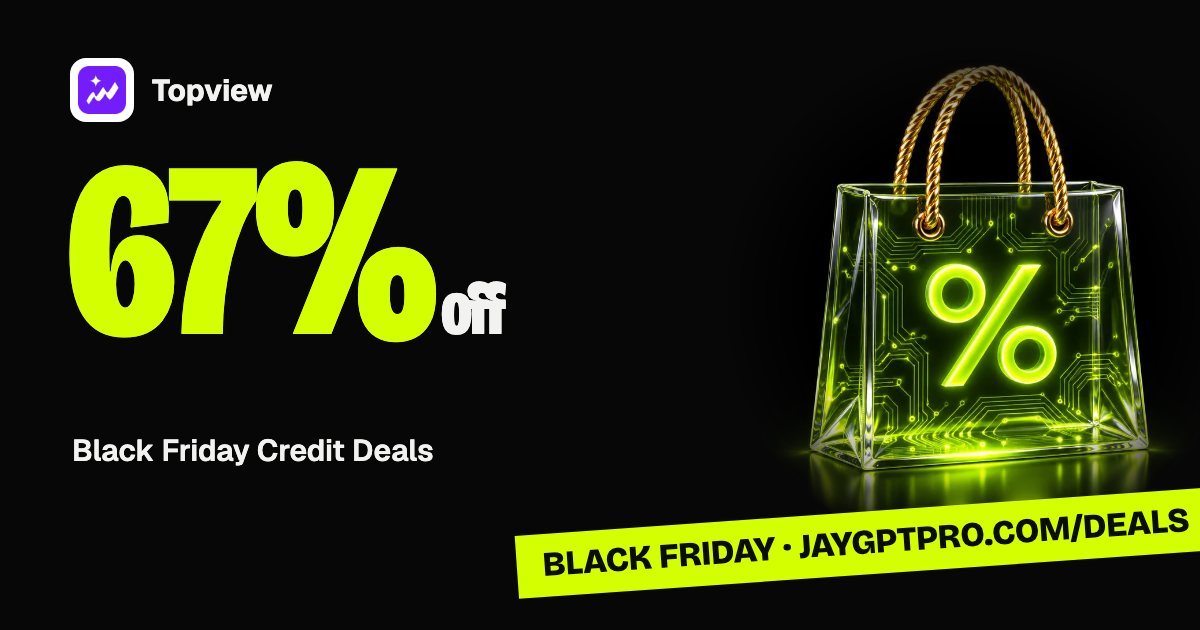
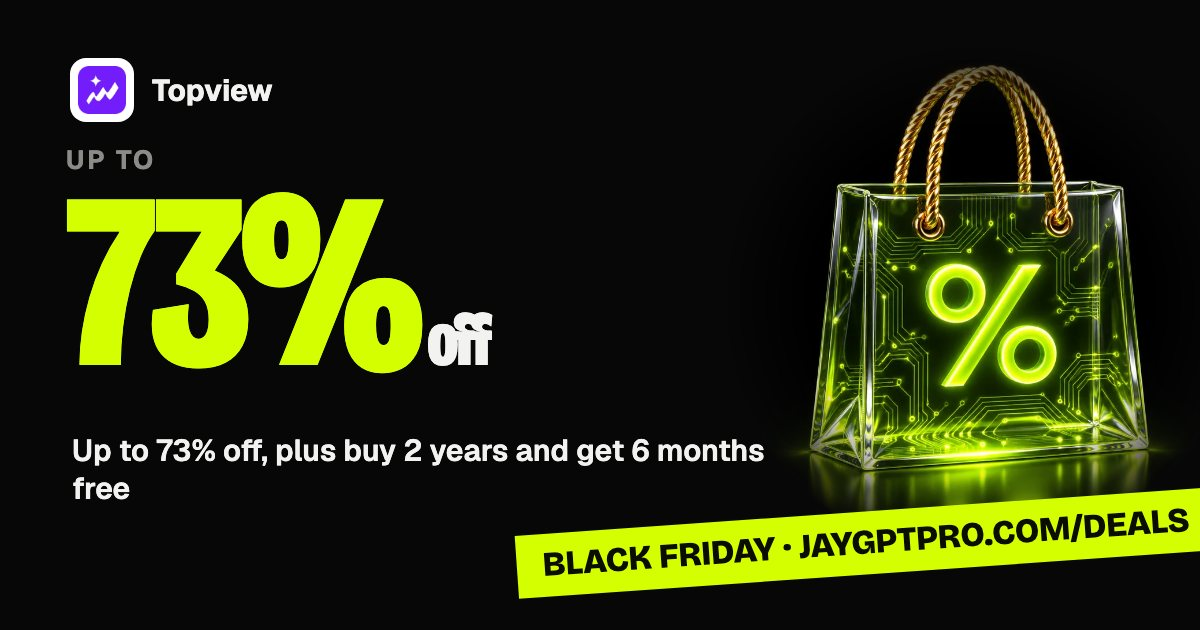
Deal Desk: every link goes to the vendor's own page
Audit of all 41 deals on 24.11. Six links pointed at other deal sites
(pricingsaas, aitoolsdirectory x3, cybernews, slickdeals); AdCreative,
LALAL.AI, VEED, Genspark and QuillBot now link to their own pages, where
each deal was confirmed. Corrected to what the vendor shows: QuillBot 40%
to Dec 6, Genspark from $9.99/mo, Higgsfield up to 69%, Topview up to 73%,
Picsart's unlimited Seedance with Ultra annual. Google AI Pro (slickdeals
only), Titan's PPC challenge (page gone) and Pabbly (checkout opens Nov 27)
go back on watch. 38 deals live.

Changed region(s): [[0.0308, 0.2413, 0.4317, 0.6032], [0.0617, 0.6937, 0.6475, 0.8143]]

diff --git a/deals/d/picsart/index.html b/deals/d/picsart/index.html
@@ -1,8 +1,8 @@
 <!doctype html><html lang="en"><head><meta charset="utf-8">
-<title>Picsart: up to 30% off · Black Friday 2026</title>
-<meta name="description" content="Black Friday deal: Ultra annual. Photo and video editor with AI backgrounds, product shots and Seedance video. Checked by hand by Jay GPT Pro.">
-<meta property="og:title" content="Picsart: up to 30% off for Black Friday">
-<meta property="og:description" content="Black Friday deal: Ultra annual. Photo and video editor with AI backgrounds, product shots and Seedance video. Checked by hand by Jay GPT Pro.">
+<title>Picsart: Unlimited · Black Friday 2026</title>
+<meta name="description" content="Unlimited Seedance 2.5 video with an Ultra annual plan. Photo and video editor with AI backgrounds, product shots and Seedance video. Checked by hand by Jay GPT Pro.">
+<meta property="og:title" content="Picsart: Unlimited for Black Friday">
+<meta property="og:description" content="Unlimited Seedance 2.5 video with an Ultra annual plan. Photo and video editor with AI backgrounds, product shots and Seedance video. Checked by hand by Jay GPT Pro.">
 <meta property="og:image" content="https://jaygptpro.com/deals/d/picsart/og.jpg">
 <meta property="og:url" content="https://jaygptpro.com/deals/d/picsart/">
 <meta property="og:type" content="website">
@@ -10,6 +10,6 @@
 <meta http-equiv="refresh" content="0; url=https://jaygptpro.com/deals/#deal-picsart">
 <link rel="canonical" href="https://jaygptpro.com/deals/#deal-picsart">
 </head><body style="background:#070707;color:#f2f2f0;font-family:system-ui;padding:40px">
-<p><a style="color:#d4ff00" href="https://jaygptpro.com/deals/#deal-picsart">Picsart: up to 30% off. See the deal</a></p>
+<p><a style="color:#d4ff00" href="https://jaygptpro.com/deals/#deal-picsart">Picsart: Unlimited. See the deal</a></p>
 <script>location.replace("https://jaygptpro.com/deals/#deal-picsart");</script>
 </body></html>

diff --git a/deals/d/higgsfield/index.html b/deals/d/higgsfield/index.html
@@ -1,8 +1,8 @@
 <!doctype html><html lang="en"><head><meta charset="utf-8">
-<title>Higgsfield: up to 70% off · Black Friday 2026</title>
-<meta name="description" content="Up to 70% OFF Black Friday. AI image and video generation used for product ads and UGC-style clips Checked by hand by Jay GPT Pro.">
-<meta property="og:title" content="Higgsfield: up to 70% off for Black Friday">
-<meta property="og:description" content="Up to 70% OFF Black Friday. AI image and video generation used for product ads and UGC-style clips Checked by hand by Jay GPT Pro.">
+<title>Higgsfield: up to 69% off · Black Friday 2026</title>
+<meta name="description" content="Up to 69% off Black Friday. AI image and video generation used for product ads and UGC-style clips Checked by hand by Jay GPT Pro.">
+<meta property="og:title" content="Higgsfield: up to 69% off for Black Friday">
+<meta property="og:description" content="Up to 69% off Black Friday. AI image and video generation used for product ads and UGC-style clips Checked by hand by Jay GPT Pro.">
 <meta property="og:image" content="https://jaygptpro.com/deals/d/higgsfield/og.jpg">
 <meta property="og:url" content="https://jaygptpro.com/deals/d/higgsfield/">
 <meta property="og:type" content="website">
@@ -10,6 +10,6 @@
 <meta http-equiv="refresh" content="0; url=https://jaygptpro.com/deals/#deal-higgsfield">
 <link rel="canonical" href="https://jaygptpro.com/deals/#deal-higgsfield">
 </head><body style="background:#070707;color:#f2f2f0;font-family:system-ui;padding:40px">
-<p><a style="color:#d4ff00" href="https://jaygptpro.com/deals/#deal-higgsfield">Higgsfield: up to 70% off. See the deal</a></p>
+<p><a style="color:#d4ff00" href="https://jaygptpro.com/deals/#deal-higgsfield">Higgsfield: up to 69% off. See the deal</a></p>
 <script>location.replace("https://jaygptpro.com/deals/#deal-higgsfield");</script>
 </body></html>

diff --git a/deals/d/genspark/index.html b/deals/d/genspark/index.html
@@ -1,8 +1,8 @@
 <!doctype html><html lang="en"><head><meta charset="utf-8">
-<title>Genspark: 50% off · Black Friday 2026</title>
-<meta name="description" content="Genspark Black Friday. AI agent workspace that builds slides, sheets, research and calls. Checked by hand by Jay GPT Pro.">
-<meta property="og:title" content="Genspark: 50% off for Black Friday">
-<meta property="og:description" content="Genspark Black Friday. AI agent workspace that builds slides, sheets, research and calls. Checked by hand by Jay GPT Pro.">
+<title>Genspark: $9.99/mo · Black Friday 2026</title>
+<meta name="description" content="Black Friday sale: plans from $9.99/mo. AI agent workspace that builds slides, sheets, research and calls. Checked by hand by Jay GPT Pro.">
+<meta property="og:title" content="Genspark: $9.99/mo for Black Friday">
+<meta property="og:description" content="Black Friday sale: plans from $9.99/mo. AI agent workspace that builds slides, sheets, research and calls. Checked by hand by Jay GPT Pro.">
 <meta property="og:image" content="https://jaygptpro.com/deals/d/genspark/og.jpg">
 <meta property="og:url" content="https://jaygptpro.com/deals/d/genspark/">
 <meta property="og:type" content="website">
@@ -10,6 +10,6 @@
 <meta http-equiv="refresh" content="0; url=https://jaygptpro.com/deals/#deal-genspark">
 <link rel="canonical" href="https://jaygptpro.com/deals/#deal-genspark">
 </head><body style="background:#070707;color:#f2f2f0;font-family:system-ui;padding:40px">
-<p><a style="color:#d4ff00" href="https://jaygptpro.com/deals/#deal-genspark">Genspark: 50% off. See the deal</a></p>
+<p><a style="color:#d4ff00" href="https://jaygptpro.com/deals/#deal-genspark">Genspark: $9.99/mo. See the deal</a></p>
 <script>location.replace("https://jaygptpro.com/deals/#deal-genspark");</script>
 </body></html>

diff --git a/deals/d/quillbot/index.html b/deals/d/quillbot/index.html
@@ -1,8 +1,8 @@
 <!doctype html><html lang="en"><head><meta charset="utf-8">
-<title>QuillBot: 58% off · Black Friday 2026</title>
-<meta name="description" content="QuillBot Black Friday 2026. Paraphraser and grammar tool for rewriting product copy quickly. Checked by hand by Jay GPT Pro.">
-<meta property="og:title" content="QuillBot: 58% off for Black Friday">
-<meta property="og:description" content="QuillBot Black Friday 2026. Paraphraser and grammar tool for rewriting product copy quickly. Checked by hand by Jay GPT Pro.">
+<title>QuillBot: 40% off · Black Friday 2026</title>
+<meta name="description" content="40% off Premium, through Dec 6. Paraphraser and grammar tool for rewriting product copy quickly. Checked by hand by Jay GPT Pro.">
+<meta property="og:title" content="QuillBot: 40% off for Black Friday">
+<meta property="og:description" content="40% off Premium, through Dec 6. Paraphraser and grammar tool for rewriting product copy quickly. Checked by hand by Jay GPT Pro.">
 <meta property="og:image" content="https://jaygptpro.com/deals/d/quillbot/og.jpg">
 <meta property="og:url" content="https://jaygptpro.com/deals/d/quillbot/">
 <meta property="og:type" content="website">
@@ -10,6 +10,6 @@
 <meta http-equiv="refresh" content="0; url=https://jaygptpro.com/deals/#deal-quillbot">
 <link rel="canonical" href="https://jaygptpro.com/deals/#deal-quillbot">
 </head><body style="background:#070707;color:#f2f2f0;font-family:system-ui;padding:40px">
-<p><a style="color:#d4ff00" href="https://jaygptpro.com/deals/#deal-quillbot">QuillBot: 58% off. See the deal</a></p>
+<p><a style="color:#d4ff00" href="https://jaygptpro.com/deals/#deal-quillbot">QuillBot: 40% off. See the deal</a></p>
 <script>location.replace("https://jaygptpro.com/deals/#deal-quillbot");</script>
 </body></html>

diff --git a/deals/d/topview/index.html b/deals/d/topview/index.html
@@ -1,8 +1,8 @@
 <!doctype html><html lang="en"><head><meta charset="utf-8">
-<title>Topview: 67% off · Black Friday 2026</title>
-<meta name="description" content="Black Friday Credit Deals. Product URL to AI avatar and UGC-style video ads. Checked by hand by Jay GPT Pro.">
-<meta property="og:title" content="Topview: 67% off for Black Friday">
-<meta property="og:description" content="Black Friday Credit Deals. Product URL to AI avatar and UGC-style video ads. Checked by hand by Jay GPT Pro.">
+<title>Topview: up to 73% off · Black Friday 2026</title>
+<meta name="description" content="Up to 73% off, plus buy 2 years and get 6 months free. Product URL to AI avatar and UGC-style video ads. Checked by hand by Jay GPT Pro.">
+<meta property="og:title" content="Topview: up to 73% off for Black Friday">
+<meta property="og:description" content="Up to 73% off, plus buy 2 years and get 6 months free. Product URL to AI avatar and UGC-style video ads. Checked by hand by Jay GPT Pro.">
 <meta property="og:image" content="https://jaygptpro.com/deals/d/topview/og.jpg">
 <meta property="og:url" content="https://jaygptpro.com/deals/d/topview/">
 <meta property="og:type" content="website">
@@ -10,6 +10,6 @@
 <meta http-equiv="refresh" content="0; url=https://jaygptpro.com/deals/#deal-topview">
 <link rel="canonical" href="https://jaygptpro.com/deals/#deal-topview">
 </head><body style="background:#070707;color:#f2f2f0;font-family:system-ui;padding:40px">
-<p><a style="color:#d4ff00" href="https://jaygptpro.com/deals/#deal-topview">Topview: 67% off. See the deal</a></p>
+<p><a style="color:#d4ff00" href="https://jaygptpro.com/deals/#deal-topview">Topview: up to 73% off. See the deal</a></p>
 <script>location.replace("https://jaygptpro.com/deals/#deal-topview");</script>
 </body></html>

diff --git a/deals/d/adcreative-ai/index.html b/deals/d/adcreative-ai/index.html
@@ -1,8 +1,8 @@
 <!doctype html><html lang="en"><head><meta charset="utf-8">
 <title>AdCreative.ai: 50% off · Black Friday 2026</title>
-<meta name="description" content="AdCreative.ai Black Friday: quarterly discount hits 50%, plus double credits. AI ad creatives, banners and product shots scored for conversion. Checked by hand by Jay GPT Pro.">
+<meta name="description" content="50% off quarterly and yearly plans, plus double credits. AI ad creatives, banners and product shots scored for conversion. Checked by hand by Jay GPT Pro.">
 <meta property="og:title" content="AdCreative.ai: 50% off for Black Friday">
-<meta property="og:description" content="AdCreative.ai Black Friday: quarterly discount hits 50%, plus double credits. AI ad creatives, banners and product shots scored for conversion. Checked by hand by Jay GPT Pro.">
+<meta property="og:description" content="50% off quarterly and yearly plans, plus double credits. AI ad creatives, banners and product shots scored for conversion. Checked by hand by Jay GPT Pro.">
 <meta property="og:image" content="https://jaygptpro.com/deals/d/adcreative-ai/og.jpg">
 <meta property="og:url" content="https://jaygptpro.com/deals/d/adcreative-ai/">
 <meta property="og:type" content="website">

diff --git a/deals/d/lalal-ai/index.html b/deals/d/lalal-ai/index.html
@@ -1,8 +1,8 @@
 <!doctype html><html lang="en"><head><meta charset="utf-8">
 <title>LALAL.AI: 40% off · Black Friday 2026</title>
-<meta name="description" content="LALAL.AI Black Friday. AI stem splitter to isolate voice and music from any audio. Checked by hand by Jay GPT Pro.">
+<meta name="description" content="40% off Pro and minute packs, their best deal of the year. AI stem splitter to isolate voice and music from any audio. Checked by hand by Jay GPT Pro.">
 <meta property="og:title" content="LALAL.AI: 40% off for Black Friday">
-<meta property="og:description" content="LALAL.AI Black Friday. AI stem splitter to isolate voice and music from any audio. Checked by hand by Jay GPT Pro.">
+<meta property="og:description" content="40% off Pro and minute packs, their best deal of the year. AI stem splitter to isolate voice and music from any audio. Checked by hand by Jay GPT Pro.">
 <meta property="og:image" content="https://jaygptpro.com/deals/d/lalal-ai/og.jpg">
 <meta property="og:url" content="https://jaygptpro.com/deals/d/lalal-ai/">
 <meta property="og:type" content="website">

diff --git a/deals/d/veed/index.html b/deals/d/veed/index.html
@@ -1,8 +1,8 @@
 <!doctype html><html lang="en"><head><meta charset="utf-8">
 <title>VEED: 30% off · Black Friday 2026</title>
-<meta name="description" content="VEED Black Friday. Browser video editor with AI subtitles, avatars and clip tools. Checked by hand by Jay GPT Pro.">
+<meta name="description" content="30% off annual plans with code BLACKFRIDAY30. Browser video editor with AI subtitles, avatars and clip tools. Checked by hand by Jay GPT Pro.">
 <meta property="og:title" content="VEED: 30% off for Black Friday">
-<meta property="og:description" content="VEED Black Friday. Browser video editor with AI subtitles, avatars and clip tools. Checked by hand by Jay GPT Pro.">
+<meta property="og:description" content="30% off annual plans with code BLACKFRIDAY30. Browser video editor with AI subtitles, avatars and clip tools. Checked by hand by Jay GPT Pro.">
 <meta property="og:image" content="https://jaygptpro.com/deals/d/veed/og.jpg">
 <meta property="og:url" content="https://jaygptpro.com/deals/d/veed/">
 <meta property="og:type" content="website">
